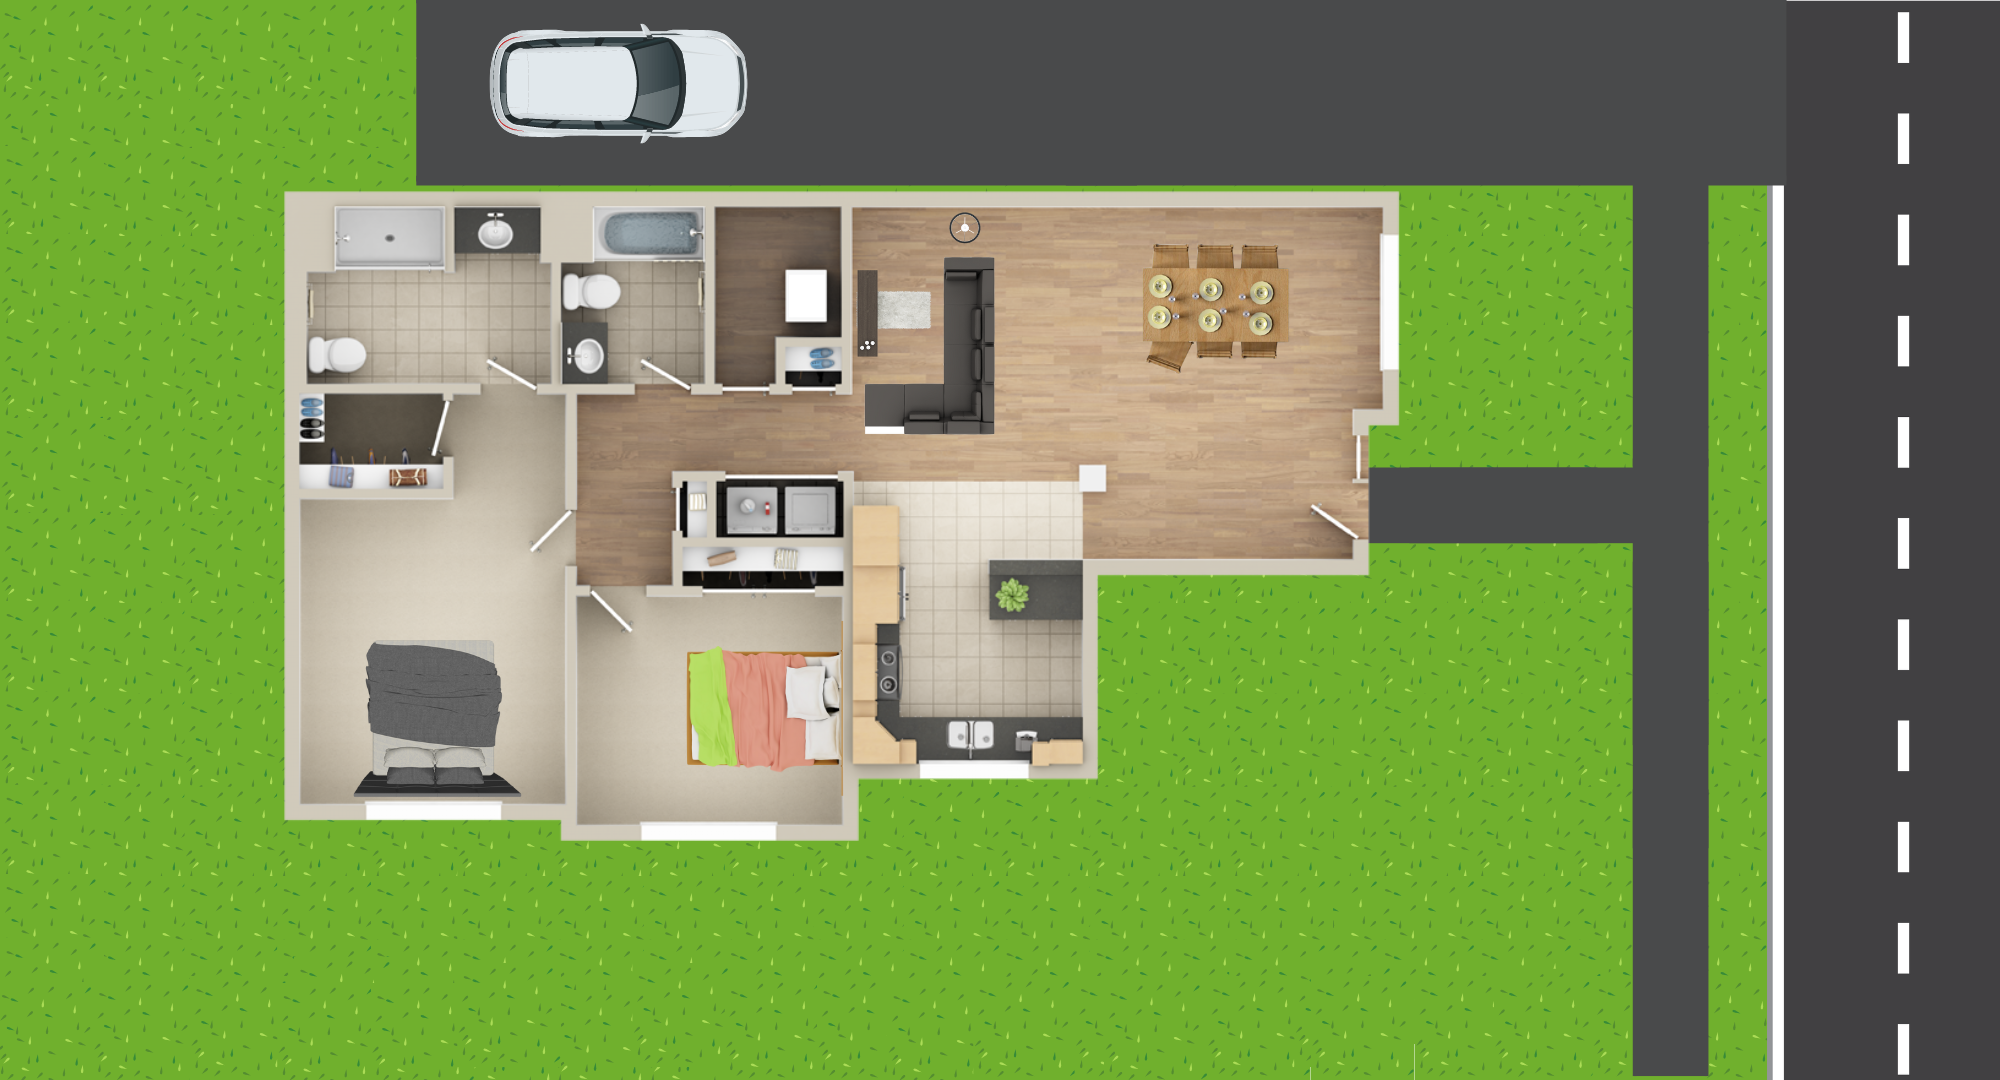
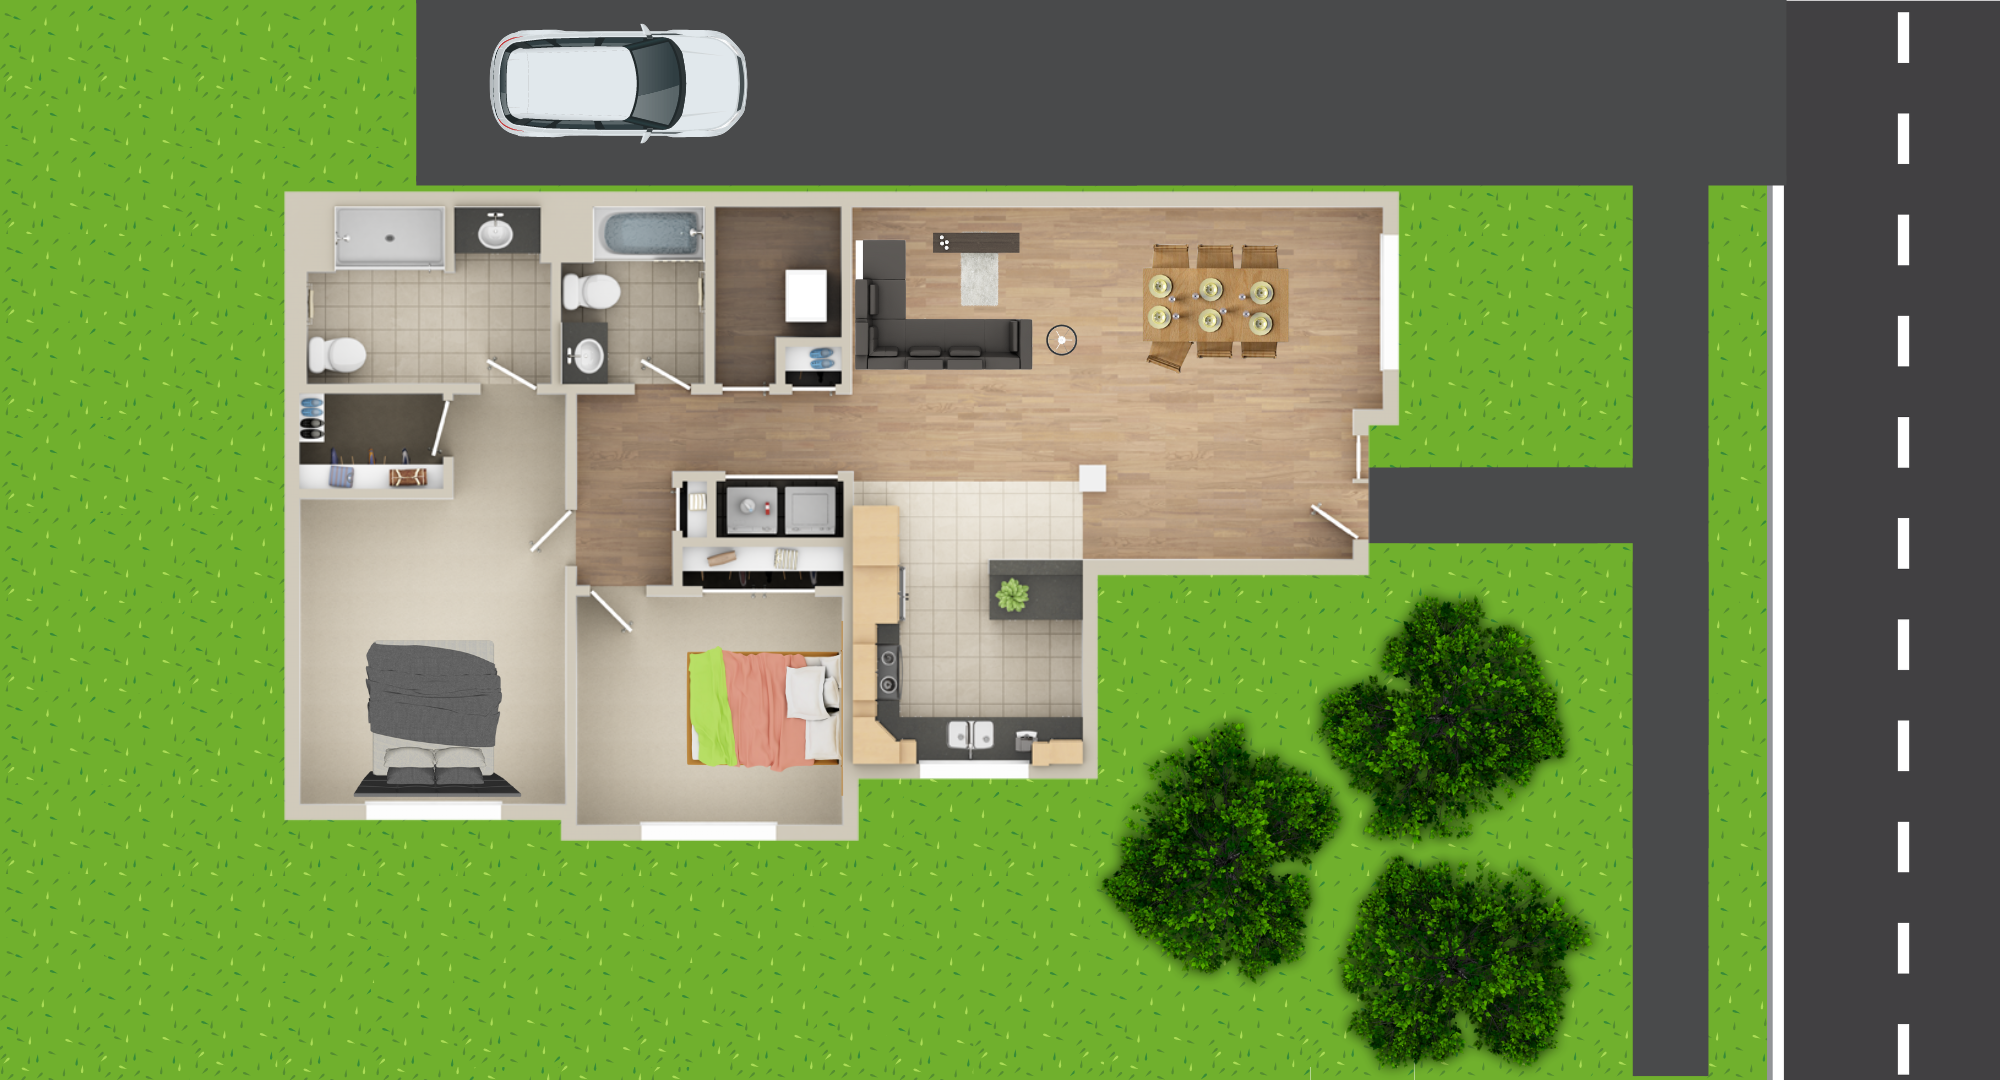
Trees to background. Added lawnmower & animation

Changed region(s): [[0.527, 0.55, 0.806, 1.0], [0.403, 0.2139, 0.527, 0.4278]]

diff --git a/index.html b/index.html
@@ -19,6 +19,10 @@
             <button class="marker wiggle escape"></button>
             <button class="marker wiggle smokeAlarms"></button>
         </div>
+        <div class="lawnmowewrDiv">
+            <img class="lawnmowerUp" src="./img/lawnmowerUp.png">
+            <img class="lawnmowerDown" src="./img/lawnmowerDown.png">
+        </div>
         <div class="bedroomDiv content">
             <span class="iconify exit" data-icon="emojione-v1:heavy-multiplication-x" data-width="32"></span>
             <h3>Did you know that one in six house fires start in the bedroom?</h3>

diff --git a/script/script.js b/script/script.js
@@ -34,10 +34,14 @@ $(document).ready(function(){
       $(".smokeAlarmsDiv").toggle();
     });
   });
-//   Hide displayed content again
+  //   Hide displayed content again
   $(document).ready(function(){
     $(".exit").click(function(){
       $(".content").animate({right: '-250px'});
       $(".content").css("display", "none")
     });
   });
+  // Removes lawnmower after animation
+  $('.lawnmowerUp').bind(
+    'animationend webkitAnimationEnd oAnimationEnd MSAnimationEnd', 
+    function(e) { $(this).remove(); });

diff --git a/styles/styles.css b/styles/styles.css
@@ -118,3 +118,32 @@ body{
     text-decoration: none;
     font-weight: bold;
 }
+.lawnmowerUp{
+  position: absolute;
+  left: 50px;
+  animation: lawnmowerU 50s linear;
+}
+@keyframes lawnmowerU{
+  0% {
+    bottom: 0;
+  }
+  100% {
+    bottom: 100%;
+    display: none;
+  }
+}
+.lawnmowerDown{
+  position: absolute;
+  left: 100px;
+  top: -150px;
+  animation: lawnmowerD 50s linear;
+  animation-delay: 50s;
+}
+@keyframes lawnmowerD{
+  0% {
+    top: -100px;
+  }
+  100% {
+    top: 100%;
+  }
+}
